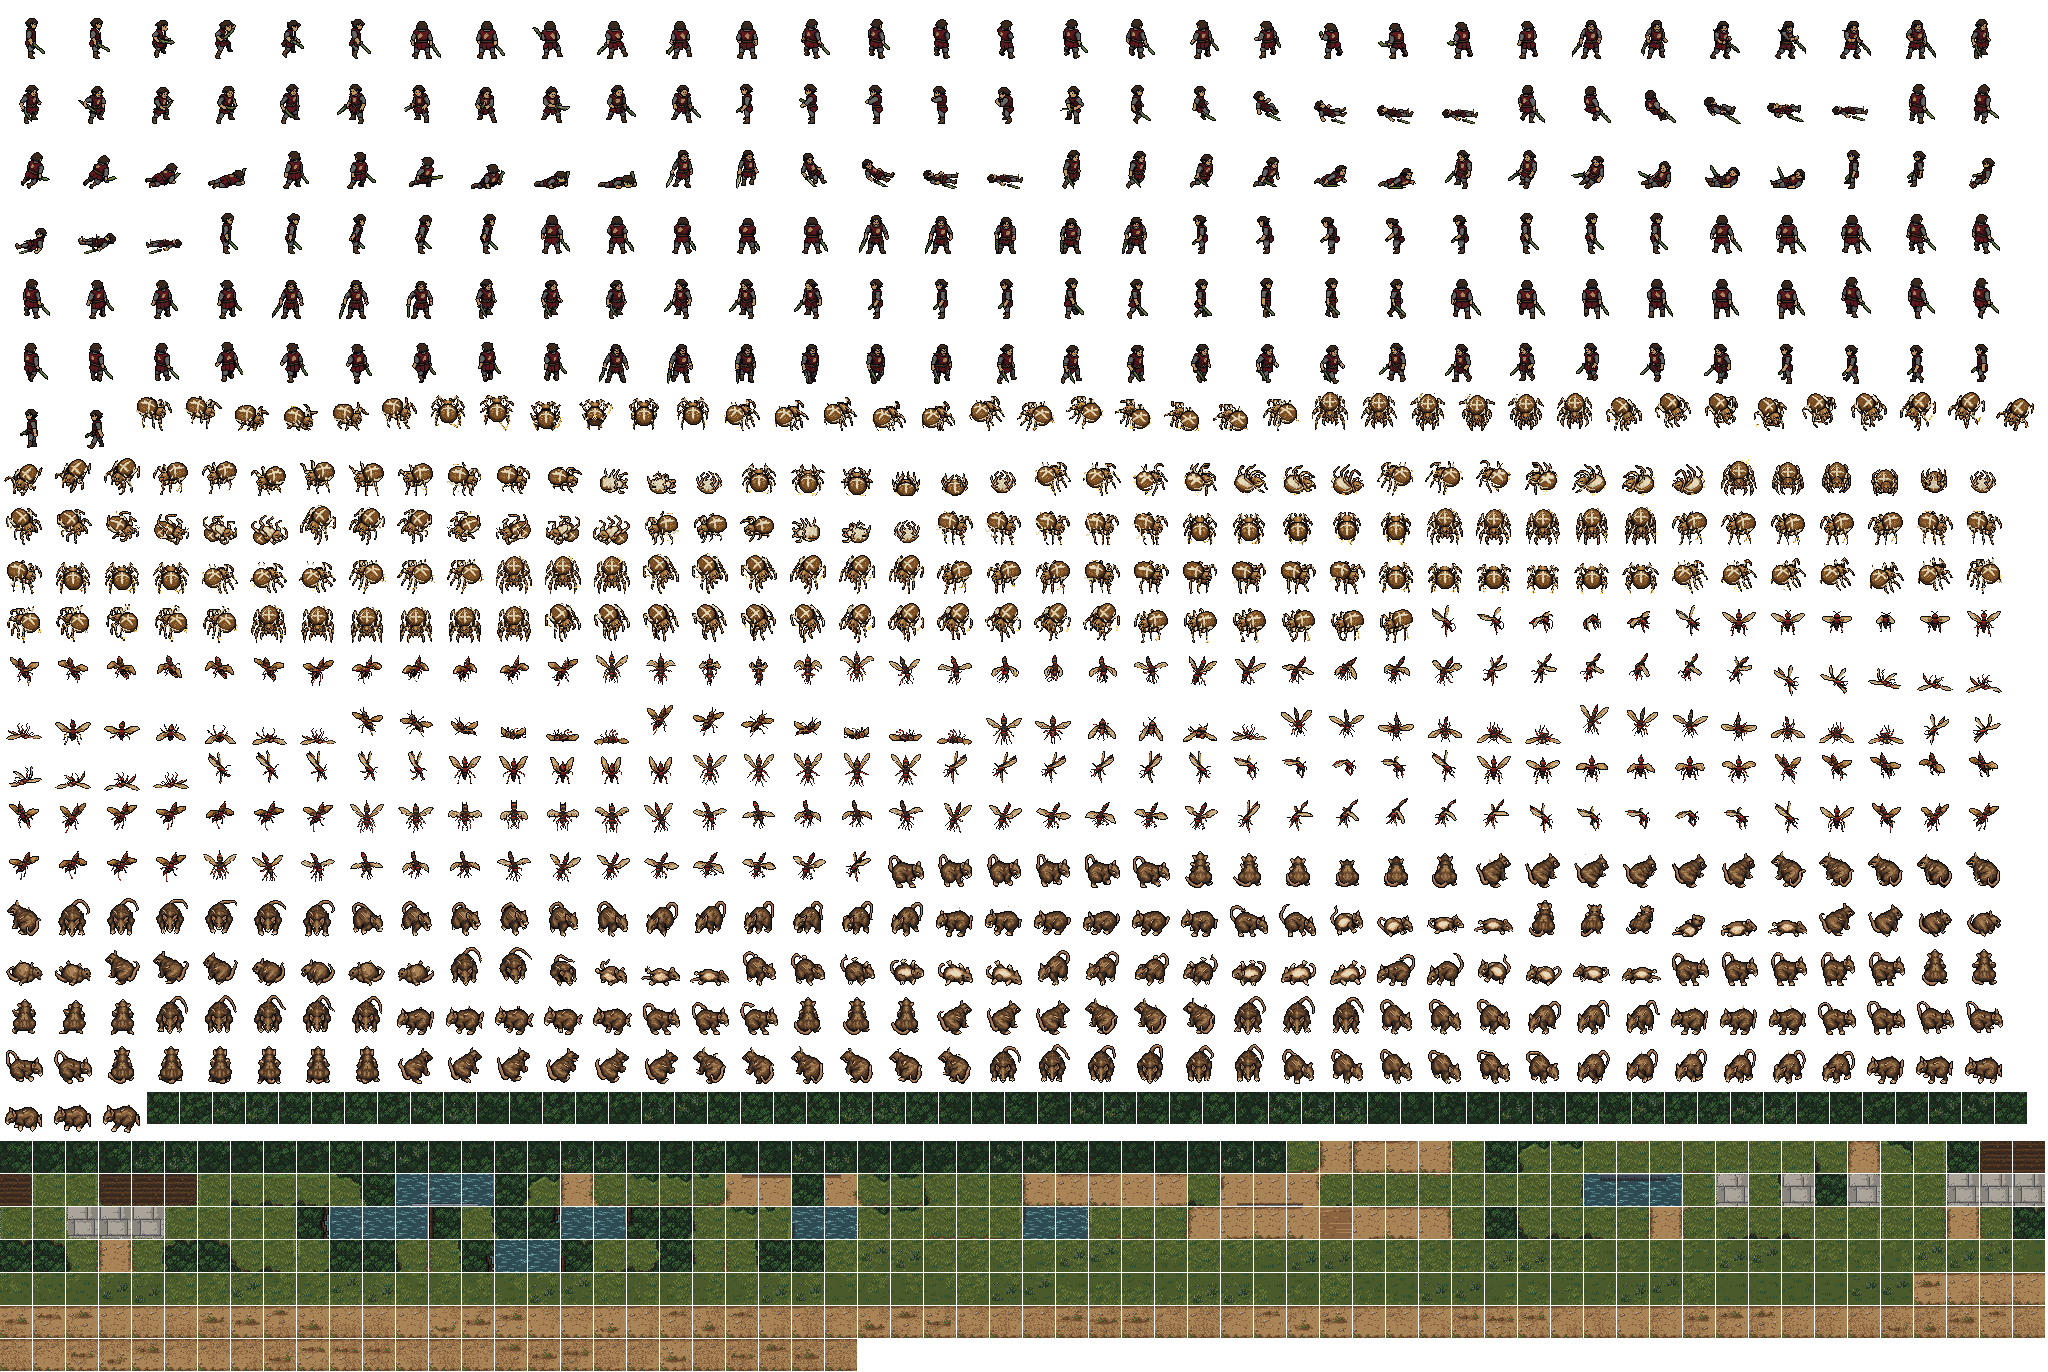
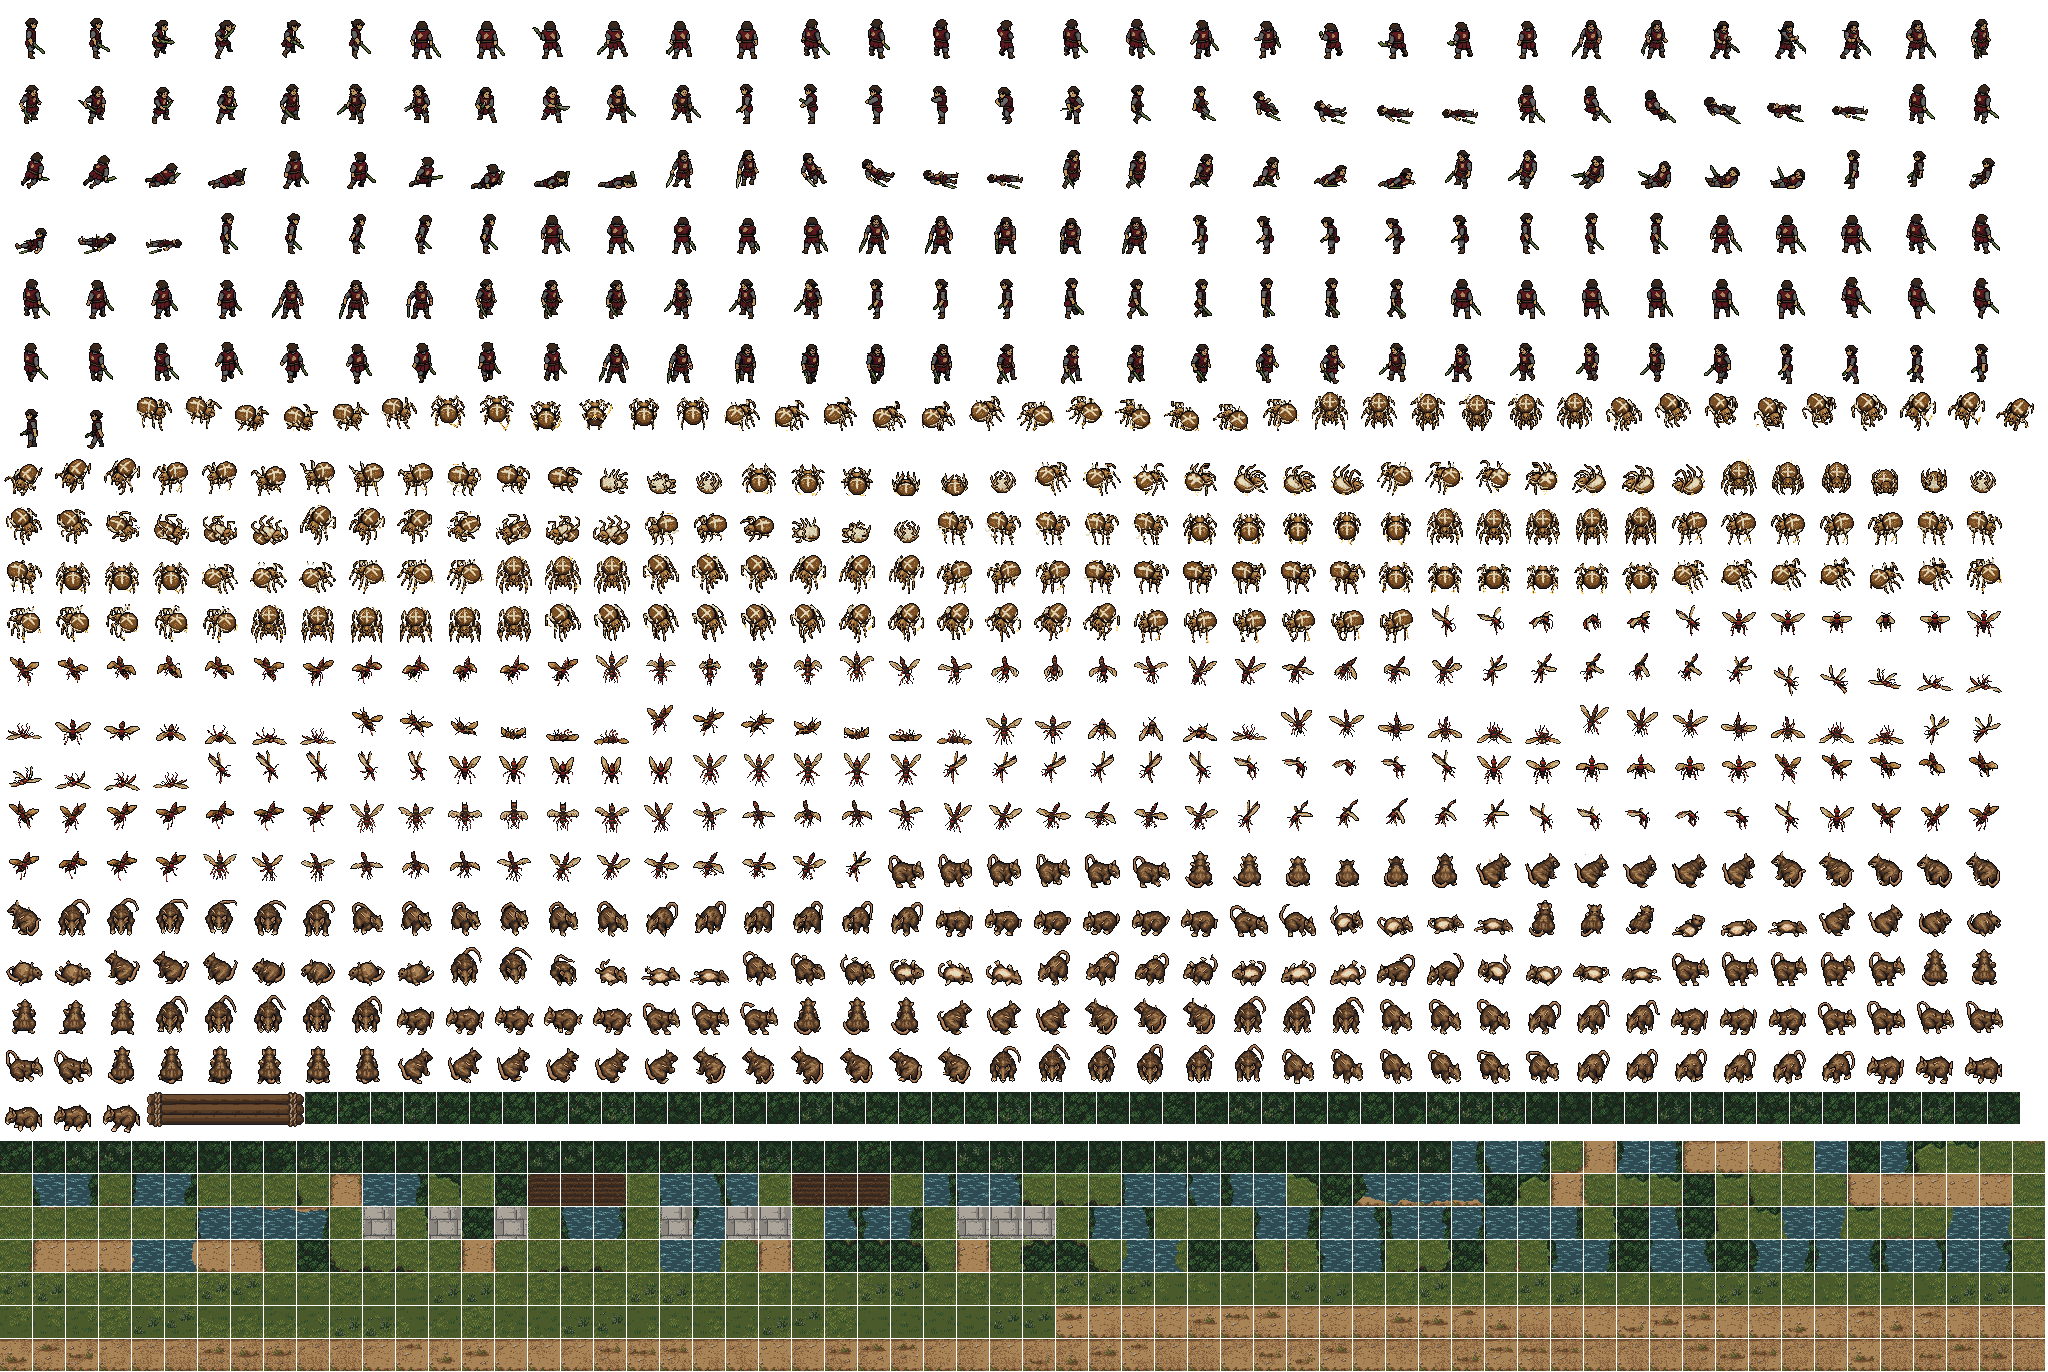
Wickstead: a footbridge that spans its brook, banks that wander
The causeway painted flat on the water is water again, under wk_footbridge: mb_log_bridge's ends and lashings with its
plain log body repeated (157 px over the 128 px brook, 0 gens), centred (footprint 2x1 at 29,8), the Wickstead kit's
signature. The banks are redrawn (seam-grounds.mjs: the grid read back from the pixels, the PixelLab paint kept in
art/world-src/seams). seams.mjs: where three materials meet, the border drawn is the pair nearest the pixel, not the top
two by layer. world-assets, world-core exit 0.

Changed region(s): [[0.0, 0.7959, 1.0, 1.0]]

diff --git a/src/data/world/maps/wickstead.js b/src/data/world/maps/wickstead.js
@@ -78,9 +78,11 @@ export default Object.freeze({
     { id: 'pine', x: 5, y: 35 }, { id: 'pine', x: 21, y: 35 }, { id: 'pine', x: 12, y: 37 },
     /* the yard's scatter: a pine in the open rick yard */
     { id: 'pine', x: 18, y: 23 },
-    /* the crossings: the ford stones. The footbridge row (the one 1-tile choke) is painted as an earth causeway: a plank
-       bridge stood on it running north-south, along the river, and was taken off 2026-11-14 */
+    /* the crossings: the ford stones, and the footbridge over the one 1-tile choke (y8): a log raft as long as the brook is
+       wide, centred on it (footprint 2 wide at x29-30), resting a few pixels on each bank; the water runs on under it
+       (lane/a-ground-seams 2026-11-16: the row was an earth causeway painted flat on the brook) */
     { id: 'mb_stepping_stones', x: 29, y: 31 }, { id: 'mb_stepping_stones', x: 30, y: 30 },
+    { id: 'wk_footbridge', x: 29, y: 8 },
     /* P0 the Rick Yard: the hay the rats nest in */
     { id: 'hay_bale', x: 8, y: 16 }, { id: 'hay_bale', x: 9, y: 16 }, { id: 'straw', x: 19, y: 24 }, { id: 'sack_pile', x: 20, y: 17 },
     { id: 'grain_spill', x: 10, y: 24 },

diff --git a/src/data/world/region-kits.js b/src/data/world/region-kits.js
@@ -71,7 +71,7 @@ export const REGION_KITS = Object.freeze({
       meadowbrook_thicket: Object.freeze({ family: 'meadow', signature: ids('mb_log_bridge') }),
       coppercap_warrens: Object.freeze({ family: 'cave', signature: ids('cw_throne') }),
       mosslight_glade: Object.freeze({ family: 'meadow', signature: ids('') }),
-      wickstead: Object.freeze({ family: 'meadow', signature: ids('') }),
+      wickstead: Object.freeze({ family: 'meadow', signature: ids('wk_footbridge') }),
     }),
     pending: ids(''),
   }),
